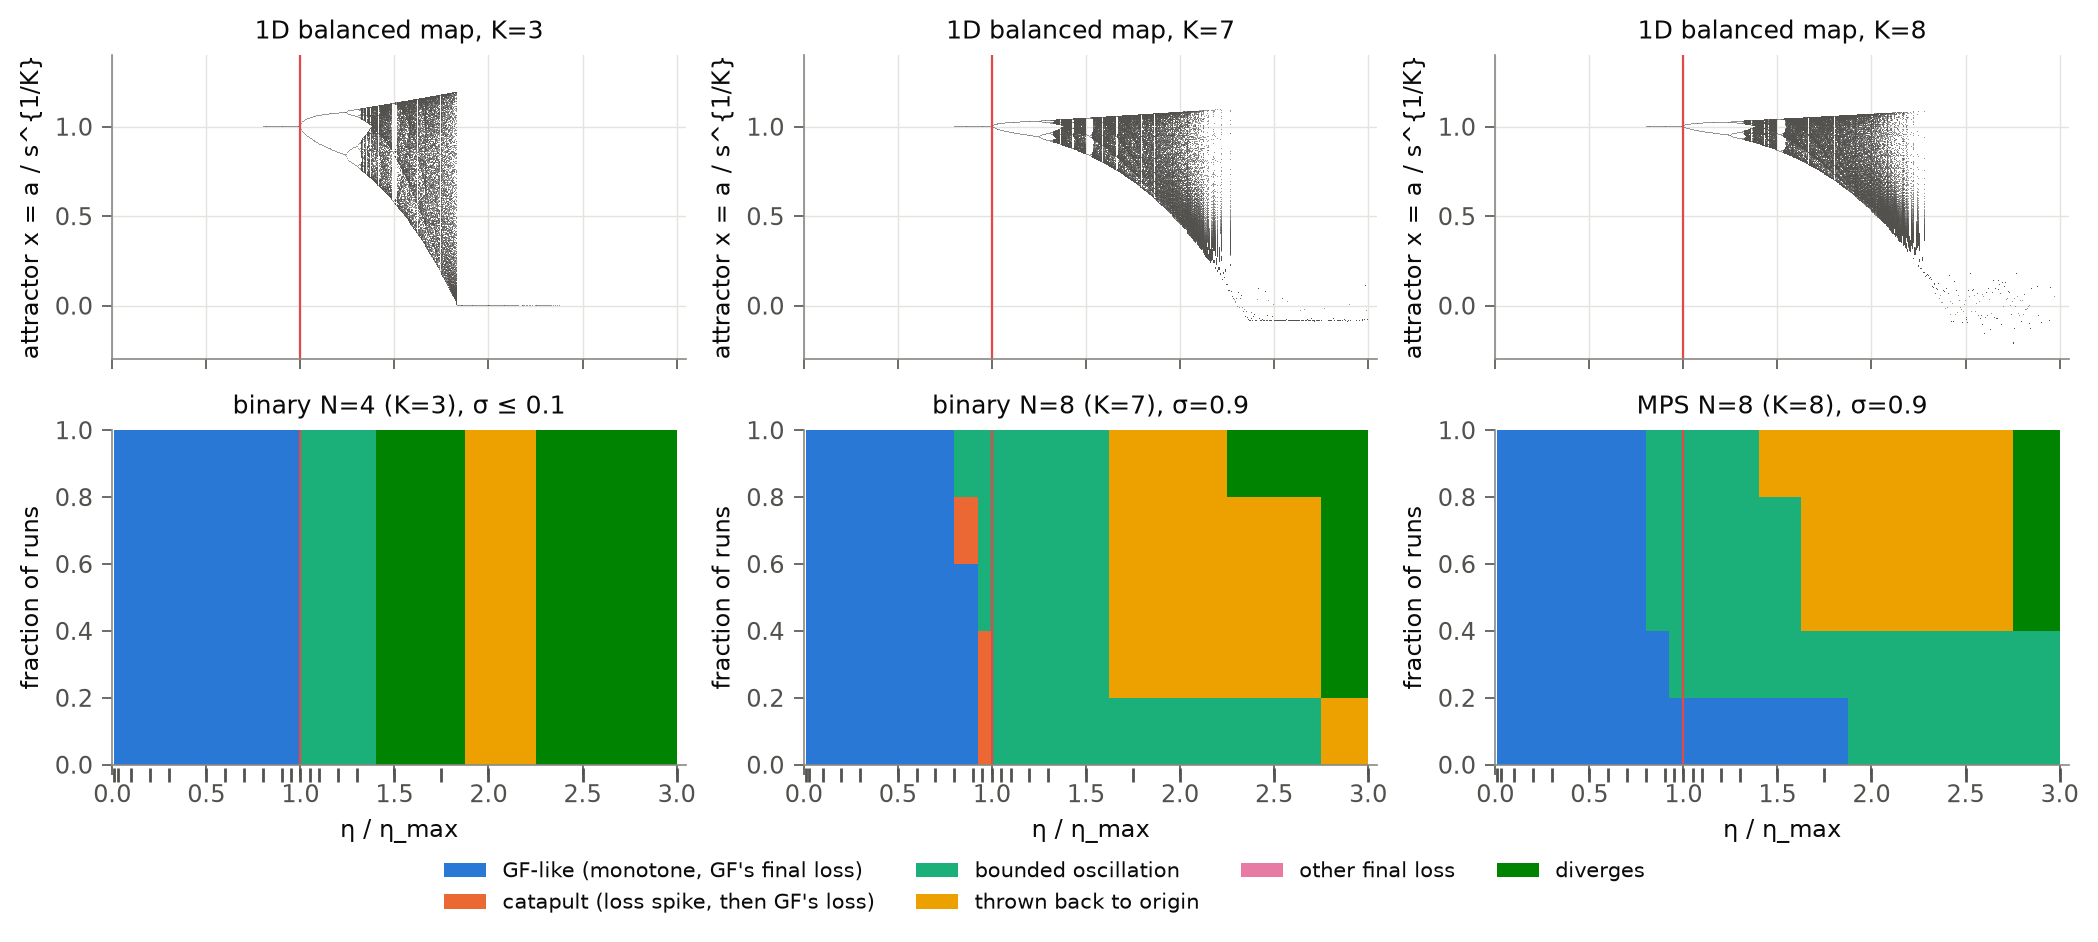
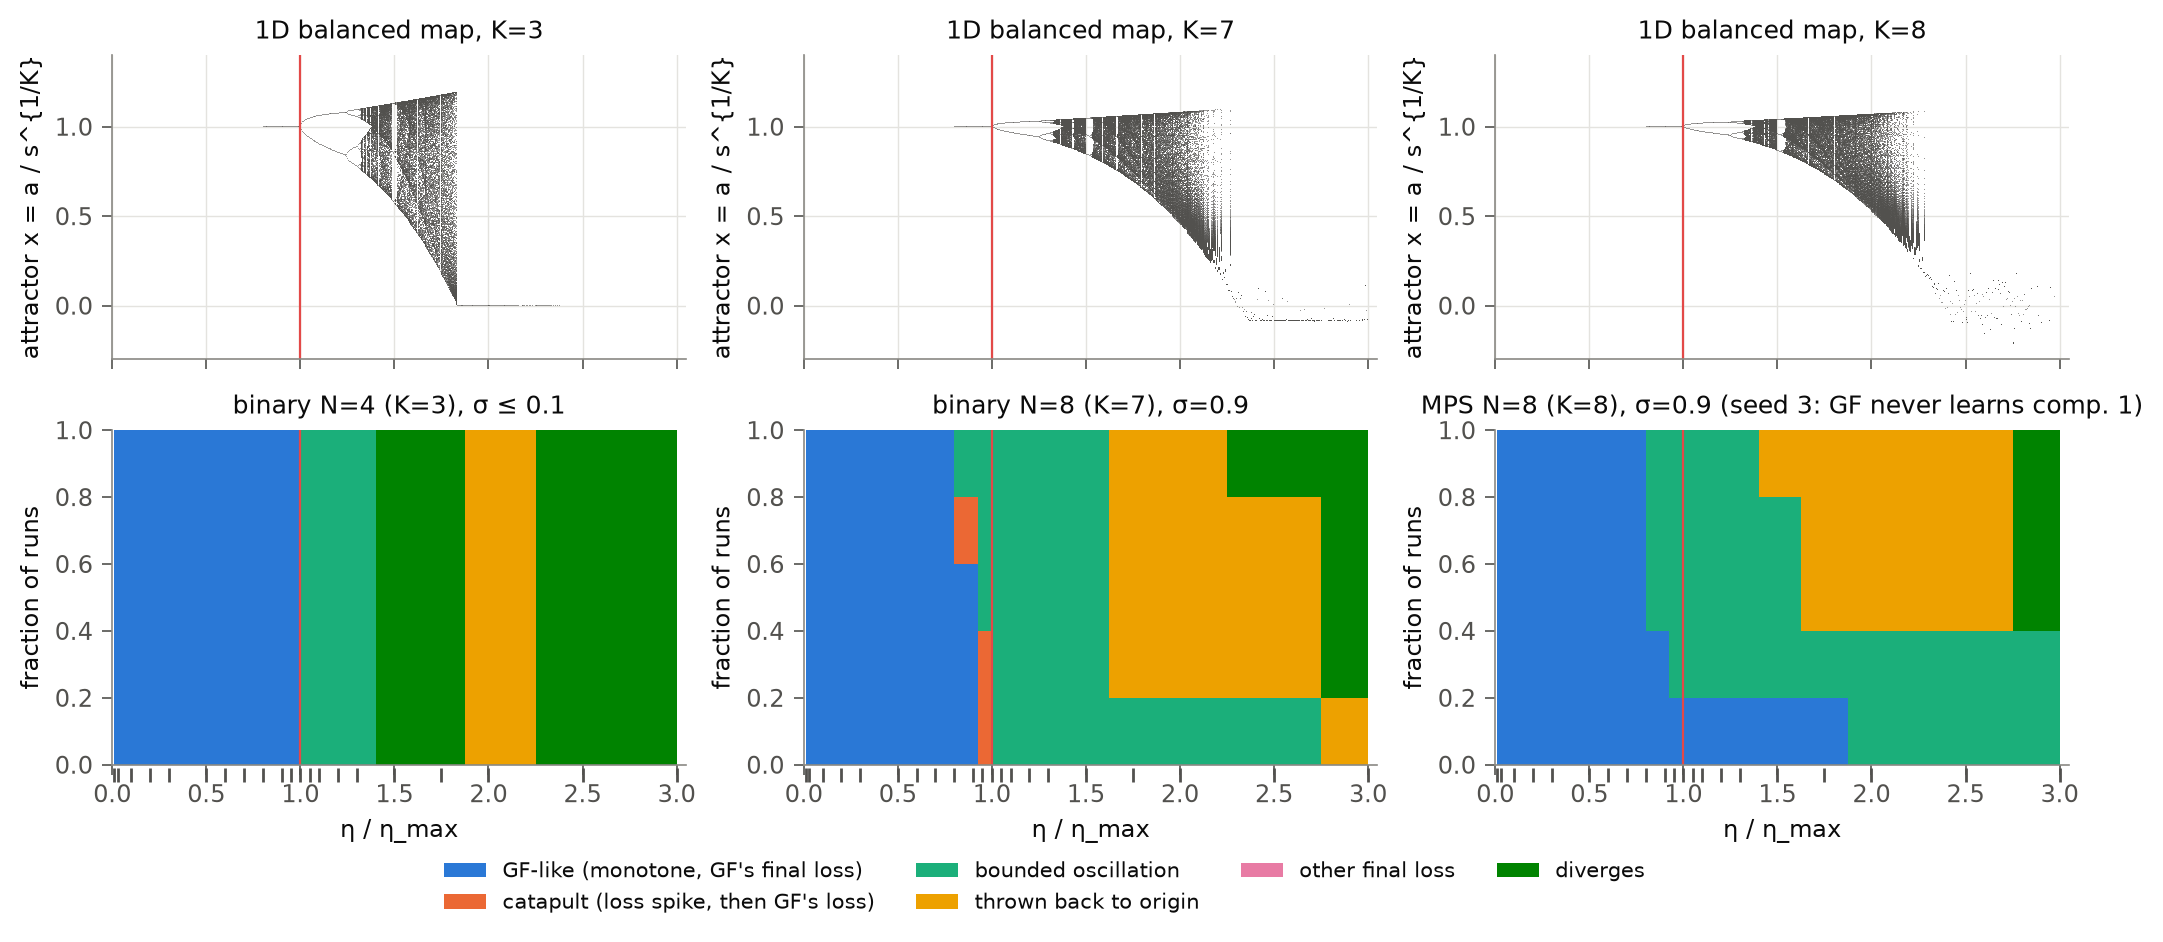
optim-samples fix round: P9/P10 notes (independent seeds, law-shape test), README run instructions, figure annotations

diff --git a/experiments/optim_samples/plot_gd.py b/experiments/optim_samples/plot_gd.py
@@ -59,7 +59,7 @@ def fig_gd_vs_gf(df):
 def fig_stability(df):
     att = pd.read_csv(RES / "map1d_points.csv")
     trees = [("binary", 4, "binary N=4 (K=3), σ ≤ 0.1", 3), ("binary", 8, "binary N=8 (K=7), σ=0.9", 7),
-             ("mps", 8, "MPS N=8 (K=8), σ=0.9", 8)]
+             ("mps", 8, "MPS N=8 (K=8), σ=0.9 (seed 3: GF never learns comp. 1)", 8)]
     fig, axes = plt.subplots(2, 3, figsize=(10.5, 4.6), sharex=True,
                              gridspec_kw=dict(height_ratios=[1, 1.1]))
     plain = df[df.root_scale.isna()]

diff --git a/experiments/optim_samples/README.md b/experiments/optim_samples/README.md
@@ -15,45 +15,57 @@ MPS N=8 (K=8). eta_max = 2 / (K s_1^{2-2/K}). Step 3 uses binary N=8, d = 2, tea
 student chi = 4. All float64 on CPU. The GD/SGD loops here are minimal and were written before
 `ttn.dynamics` landed; GF references use `scipy` DOP853 (rtol 1e-10, atol 1e-14).
 
-## Scripts (run from the repo root with `uv run python experiments/optim_samples/<script>`)
+## How to run
+
+From the repository root, with config paths written out in full, for example
+
+    uv run python experiments/optim_samples/gd_sweep.py experiments/optim_samples/configs/gd_sweep.yaml --workers 8
+    uv run python experiments/optim_samples/analyze_gd.py --out-dir experiments/optim_samples/results
+
+Every script takes `--raw-dir DIR` (raw per-run data; default `/root/outputs/optim_samples`, or the
+environment variable `OPTIM_SAMPLES_RAW`) and `--out-dir DIR` (summary CSVs and figures; default
+`<raw-dir>/results` or `OPTIM_SAMPLES_OUT`). The default output directory is outside git, so a re-run
+never overwrites the committed results; pass `--out-dir experiments/optim_samples/results` to
+regenerate them. Analysis scripts read the CSVs of earlier scripts from the same `--out-dir`. Sweeps take
+`--workers N` (default: min(30, number of CPUs); one torch thread per process) and are resumable
+(finished runs are skipped; move a raw directory aside to rerun it). On machines without `/root`, pass
+`--raw-dir` / `--out-dir` (or set the variables). `PYTHONDONTWRITEBYTECODE=1` keeps `__pycache__` out
+of the folder.
+
+## Scripts
 | script | what | output |
 |---|---|---|
-| `check_sharpness.py` | top Hessian eigenvalue at balanced / gauged / imbalanced minima vs K s_1^{2-2/K} | `results/sharpness_check.csv` |
-| `map1d.py` | bifurcation diagram of GD on one balanced mode | `results/map1d_attractor.csv`, `map1d_points.csv` |
-| `sgd_stability.py [tree N ...]` | exact linear mean-square stability limit of online SGD vs B | `results/sgd_stability.csv` |
-| `gd_sweep.py configs/gd_sweep.yaml` | step 1: GF references + GD at 18 step sizes (750 runs) | raw: `/root/outputs/optim_samples/gd/` |
-| `gd_sweep.py configs/gd_order.yaml` | 40 more init seeds (order flips below eta_max) | same |
-| `gd_sweep.py configs/gd_centred.yaml` | centred model, sigma 0.3-2: stability limit across the lazy transition | same |
-| `predict_shift.py` | first-order (backward-error) prediction of GD event shifts | `results/gd_shift_prediction.csv` |
-| `analyze_gd.py` | step-1 table and outcome classes; exports EoS example trajectories | `results/gd_sweep.csv`, `gd_summary.csv`, `eos_example_*.csv` |
-| `analyze_order.py` | order flips vs eta, near-tie measure | `results/order_flips.csv`, `fig_order_flips.png` |
+| `check_sharpness.py` | top Hessian eigenvalue at balanced / gauged / imbalanced minima vs K s_1^{2-2/K} | `sharpness_check.csv` |
+| `map1d.py` | bifurcation diagram of GD on one balanced mode | `map1d_attractor.csv`, `map1d_points.csv` |
+| `sgd_stability.py [tree N ...]` | exact linear mean-square stability limit of online SGD vs B | `sgd_stability.csv` |
+| `gd_sweep.py <config>` | GF references + GD runs; configs: `gd_sweep.yaml` (step 1, 750 runs), `gd_order.yaml` (40 more seeds), `gd_centred.yaml` (round 1, chi = 3 centred; superseded), `gd_centred_chi9.yaml` (fix round 1: chi = 9 centred + small init, steps relative to 2/lambda_GF) | raw: `<raw-dir>/gd/` |
+| `predict_shift.py` | first-order (backward-error) prediction of GD event shifts (step-1 references) | `gd_shift_prediction.csv` |
+| `analyze_gd.py` | per-run table, outcome classes (GF-like, catapult, oscillating, thrown back, other, diverged), EoS example export | `gd_sweep.csv`, `gd_summary.csv`, `eos_example_*.csv` |
+| `analyze_shift.py` | accuracy of the O(eta) shift per event and seed; Richardson check | `shift_accuracy*.csv`, `shift_richardson.csv`, `fig_shift_accuracy.png` |
+| `analyze_order.py` | persistent order vs GF, transient crossings, near-tie measure | `order_flips.csv`, `fig_order_flips.png` |
+| `analyze_p5.py` | P5: oscillation excess loss vs the 1D map | `p5_excess_loss.csv` |
+| `analyze_centred.py` | chi = 9: lambda_GF(sigma) fit, GD classes vs eta/(2/lambda_GF) | `centred_chi9_*.csv`, `fig_centred_chi9.png` |
 | `plot_gd.py` | step-1 figures | `fig_gd_vs_gf.png`, `fig_stability.png`, `fig_eos_example.png`, `fig_min_selection.png` |
 | `plot_regime.py` | learning-rate axis of the regime map | `fig_lr_regime_map.png` |
-| `sgd_sweep.py configs/sgd_sweep.yaml` | step 2: online SGD, B = 1..256, eta sweeps, aligned init | raw: `/root/outputs/optim_samples/sgd/*.jsonl` |
-| `analyze_sgd.py`, `plot_sgd.py` | step-2 tables (incl. second plateau vs P9) and figures | `results/sgd_*.csv`, `fig_sgd.png`, `fig_sgd_stability.png` |
-| `p9_sgd.py`, `plot_p9.py` | test of the theory note's P9/P10 (SGD on a later plateau; uses `ttn.dynamics.run_sgd`) | `results/p9_sgd.csv`, `p9_fit.csv`, `fig_p9.png` |
-| `collapse_test.py` | stochastic collapse of a k = 2 route with label noise, MPS N=4 (`ttn.dynamics.run_sgd`) | `results/collapse_test.csv` |
-| `check_k2_saddle.py` | gauge-projected Hessian lambda_min at the k = 2 plateau vs sigma (saddle type) | `results/k2_saddle_sweep.csv`, `k2_saddle_hessian.json` |
-| `sgd_limit_test.py` | empirical SGD stability limit at the balanced minimum (B = 1, 16) | `results/sgd_limit_test.csv` |
-| `samples_sweep.py configs/samples_sweep.yaml` | step 3: fixed training sets, small vs centred large init, exact lazy limit | raw: `/root/outputs/optim_samples/samples/*.jsonl` |
-| `analyze_samples.py` | step-3 tables and figure | `results/samples_summary.csv`, `fig_samples.png` |
-| `validate_library.py` | reruns sample GD/GF/SGD settings with `ttn.dynamics` and compares | `results/validate_library.csv` |
+| `sgd_sweep.py experiments/optim_samples/configs/sgd_sweep.yaml` | step 2: online SGD, B = 1..256, eta sweeps, aligned init; runs continue past the second GF event | raw: `<raw-dir>/sgd/*.jsonl` |
+| `analyze_sgd.py`, `plot_sgd.py` | step-2 tables (per init and pooled, s.e. across inits; second plateau vs P9) and figures | `sgd_*.csv`, `fig_sgd.png`, `fig_sgd_stability.png` |
+| `p9_sgd.py`, `plot_p9.py` | P9/P10 test (aligned-route start, independent noise seeds; `ttn.dynamics.run_sgd`), law-shape fits | `p9_sgd.csv`, `p9_conditions.csv`, `p9_fit.csv`, `fig_p9.png` |
+| `collapse_test.py` | stochastic collapse of a k = 2 route with label noise, MPS N=4 | `collapse_test.csv` |
+| `check_k2_saddle.py` | raw and gauge-projected Hessian lambda_min at the k = 2 plateau vs sigma | `k2_saddle_sweep.csv`, `k2_saddle_hessian.json` |
+| `sgd_limit_test.py` | empirical SGD stability limit at the balanced minimum (B = 1, 16) | `sgd_limit_test.csv` |
+| `samples_sweep.py experiments/optim_samples/configs/samples_sweep.yaml` | step 3: fixed training sets, small vs centred init, exact lazy limit | raw: `<raw-dir>/samples/*.jsonl` |
+| `analyze_samples.py` | step-3 tables and figure | `samples_summary.csv`, `fig_samples.png` |
+| `validate_library.py` | reruns sample GD/GF/SGD settings with `ttn.dynamics` and compares (round 1) | `validate_library.csv` |
 
-All scripts take `--out-dir DIR` (summaries and figures; default `/root/outputs/optim_samples/results`,
-outside git, so a re-run never overwrites the committed results; pass `--out-dir
-experiments/optim_samples/results` to regenerate them) and `--raw-dir DIR` (raw per-run data; default
-`/root/outputs/optim_samples`); the sweeps take `--workers N`. Analysis scripts read the CSVs written by
-earlier scripts from the same `--out-dir`.
-
-Helpers: `common.py` (setup, Problem with centred variant, GF reference via scipy DOP853, events),
-`plot_style.py`. Order to regenerate everything: `check_sharpness.py`, `map1d.py`,
-`sgd_stability.py`, the three `gd_sweep.py` configs, `predict_shift.py`, `analyze_gd.py`,
-`analyze_order.py`, `plot_gd.py`, `plot_regime.py`, `sgd_sweep.py`, `analyze_sgd.py`, `plot_sgd.py`,
-`p9_sgd.py`, `plot_p9.py`, `collapse_test.py`, `check_k2_saddle.py`, `sgd_limit_test.py`,
-`samples_sweep.py`, `analyze_samples.py`; `validate_library.py` any time after the GD/SGD sweeps. Sweeps are
-resumable (finished runs are skipped). Variants: edit or copy a YAML config (trees, sigmas, seeds,
-ratios / batch sizes / n_train); `--workers` sets the process count (one torch thread each). Cost on
-30 vCPUs: step-1 sweep ~25 min, SGD sweep ~3 h, samples sweep ~45 min, P9 ~40 min.
+Helpers: `common.py` (setup, Problem with centred variant, GF reference via scipy DOP853 with exact
+event location, persistent events `record_events`), `plot_style.py`. Order to regenerate everything:
+`check_sharpness.py`, `map1d.py`, `sgd_stability.py`, `gd_sweep.py` with `gd_sweep.yaml`,
+`gd_order.yaml`, `gd_centred_chi9.yaml`, then `predict_shift.py`, `analyze_gd.py`, `analyze_shift.py`,
+`analyze_order.py`, `analyze_p5.py`, `analyze_centred.py`, `plot_gd.py`, `plot_regime.py`; then
+`sgd_sweep.py` (needs the GF references), `analyze_sgd.py`, `plot_sgd.py`, `p9_sgd.py`, `plot_p9.py`,
+`collapse_test.py`, `check_k2_saddle.py`, `sgd_limit_test.py`, `samples_sweep.py`,
+`analyze_samples.py`. Cost on 30 vCPUs (shared): GD sweeps ~40 min, chi = 9 centred ~1.5 h, SGD sweep
+~3 h, samples ~1 h, P9 ~40 min.
 
 ## Results summary (details, tags and numbers in `notes/optim_samples.md`)
 - Sharpness at the balanced global minimum is exactly K s_1^{2-2/K} (proven; checked to 1e-15), the

diff --git a/notes/optim_samples.md b/notes/optim_samples.md
@@ -59,7 +59,9 @@ x -> x - h x^{K-1} (x^K - 1), h = eta s^{2-2/K}, with h_c = 2/K (`map1d.py`,
 2-cycle straddling x = 1 for 1 < h/h_c < 1.245 (supercritical flip; loss on the cycle grows
 continuously from 0); period 4 at 1.245-1.25, period 8 at ~1.31, chaos from ~1.33 with periodic
 windows (period 3 at ~1.49); the orbit falls back to the plateau near x = 0 ("re-entry") from
-h/h_c = 1.84 / 1.99 / 2.23 / 2.29 and diverges from 2.16 / 2.41 / 2.72 / 2.86 for K = 3 / 4 / 7 / 8.
+h/h_c = 1.84 / 1.99 / 2.23 / 2.29 and diverges from 2.16 / 2.41 / 2.72 / 2.86 for K = 3 / 4 / 7 / 8
+(first occurrence on a grid of step 0.005; the regimes interleave: above the first divergence, 30
+grid points (K = 3) and 45 (K = 7) still end in re-entry rather than divergence).
 The flip and cascade thresholds are K-independent in units of h_c; re-entry and divergence move
 up with K.
 
@@ -279,33 +281,43 @@ and sigma = 0.03 (B in {1, 4, 16, 64, 256}); eta sweeps at B = 4 (eta = 1e-4 ...
   gauge orbits, ~0.6-0.9 in tr Q at B = 1 (cores have |G|^2 ~ 4).
 - No divergence in any run (all eta <= 0.47 eta*_ms).
 
-### 4.1 Test of the theory note's P9/P10 (empirical; `p9_sgd.py`, `plot_p9.py`, `results/p9_fit.csv`)
+### 4.1 Test of the theory note's P9/P10 (empirical; `p9_sgd.py`, `plot_p9.py`, `results/p9_*.csv`)
 
 Binary N=4, d = chi = 3, teacher [3, 2, 1]; start on the aligned route (component 1 learned,
-components 2 and 3 at per-core amplitude b0), so the GF second plateau is exact: T_GF = 49.7, 166.3,
-499.6 for b0 = 0.01, 0.003, 0.001 (exact 1D integral = `integrate_gf` lsoda to 1e-8). Online SGD
-(`ttn.dynamics.run_sgd`), 4 noise seeds per point, eta/B = 6.25e-5, 1.25e-4, 2.5e-4 at B = 64
-(eta = 0.004-0.016 = 0.08-0.3 eta*_ms) and B = 16 (b0 = 0.01). Event: a_2 = 1/2.
+components 2 and 3 at per-core amplitude b0), so the GF second plateau is exact: T_GF = 49.7, 99.7,
+166.3, 249.7 for b0 = 0.01, 0.005, 0.003, 0.002 (exact 1D integral = `integrate_gf` lsoda to 1e-8).
+Online SGD (`ttn.dynamics.run_sgd`), **6 independent noise seeds per point** (fix round 1: round-1
+runs at B = 16 and 64 shared generator seeds and were pathwise coupled; they are kept in
+`results/p9_sgd_round1.csv`), eta/B = 3.125e-5 ... 2.5e-4 at B = 64 (eta = 0.002-0.016 = 0.04-0.30
+eta*_ms), and at B = 16 for b0 = 0.01, 0.003. Event: persistent crossing of a_2 = 1/2; runs up to
+4 T_GF (cap 1600). R = T_SGD/T_GF, mean +- s.e. over the escaped seeds; z = (eta/B) T_GF.
 
-| b0 (T_GF) | eta/B = 6.25e-5 | 1.25e-4 | 2.5e-4 |
-|---|---|---|---|
-| 0.01 (50), B=64 / B=16 | 1.056 / 1.056 (c 33.6 / 33.5) | 1.130 / 1.129 (35.6 / 35.3) | 1.386 / 1.380 (40.1 / 39.7) |
-| 0.003 (166), B=64 | 1.267 (37.5) | 3.06 +- 0.26 (45.1) | trapped (4/4) |
-| 0.001 (500), B=64 | trapped (4/4) | trapped (4/4) | trapped (2/2) |
+| b0 (T_GF) | eta/B = 3.1e-5 | 6.25e-5 | 1.25e-4 | 2.5e-4 |
+|---|---|---|---|---|
+| 0.01 (50), B = 64 / 16 | 1.027 +- 0.001 / 1.024 +- 0.003 | 1.048 +- 0.003 / 1.052 +- 0.004 | 1.131 +- 0.017 / 1.124 +- 0.005 | 1.45 +- 0.07 / 1.38 +- 0.03 |
+| 0.005 (100) | 1.048 +- 0.002 | 1.118 +- 0.006 | 1.372 +- 0.011 | trapped 6/6 |
+| 0.003 (166), B = 64 / 16 | 1.090 +- 0.001 / 1.087 +- 0.001 | 1.250 +- 0.008 / 1.237 +- 0.004 | 2.69 +- 0.15 / 2.45 +- 0.17 | trapped 12/12 |
+| 0.002 (250) | 1.153 +- 0.003 | 1.547 +- 0.015 | trapped 6/6 | trapped 6/6 |
 
-(T_SGD/T_GF, mean over seeds; c = c_gamma from inverting -ln(1-x)/x.) Findings:
-- **Lengthening and trapping confirmed** (P9 (i)): no SGD run escaped faster than GF (P9 (iv)); the
-  route amplitude sigma_2^{1/3} of trapped runs decays (0.001 -> 5e-4, 3e-5, 1e-6 by t = 1600 at the
-  three eta/B).
-- **Only eta/B matters** (P9 (ii)): B = 16 and B = 64 at equal eta/B agree to 0.5%.
-- **c_gamma = 34-45** for this teacher (heuristic of the note: 26), increasing with x: the law's
-  shape -ln(1-x)/x underestimates the lengthening near the trap; the trapping threshold
-  (x = c (eta/B) T_GF ~ 1) is consistent with all trapped runs (c >= 32).
-- **P10 safety rule fails for long plateaus with this teacher:** at eta/B = 2.5e-4 (0.25-0.3 eta*_ms)
-  the learned component dips below 1/2 within T ~ 70 (min a_1 = 0.44-0.46); over 1600 time units it is
-  erased even at 0.15 eta*_ms (min a_1 = 0.04, -0.07). Excursions accumulate with run length, and the
-  residual noise grows like s^2 while eta*_ms shrinks only like s^{-4/3}, so larger teachers need a
-  smaller fraction of eta*_ms (conjecture).
+- **Lengthening and trapping (P9 (i), (iv)):** every escaped run is slower than GF; 30/30 runs at
+  z >= 0.025 are trapped (no escape by 4 T_GF).
+- **Only eta/B matters (P9 (ii)), now with independent noise:** B = 16 and B = 64 agree within their
+  standard errors at all 8 matched points (largest gap 2.69 +- 0.15 vs 2.45 +- 0.17).
+- **Shape of the law:** one c_gamma for all 19 escaped conditions, weighted least squares in R:
+  P9 (-ln(1-x)/x) c_gamma = 32.6, chi^2 = 379 (18 dof); pole law 1/(1-x): c = 16.9, chi^2 = 535; linear
+  1 + x/2: chi^2 = 929. The P9 shape fits best and its threshold x = 1 classifies 23/24 conditions
+  correctly (all 19 escaped; 4/5 trapped; b0 = 0.005 at eta/B = 2.5e-4 traps at x = c z = 0.81), but
+  chi^2/dof ~ 21: the measured lengthening rises more steeply near the trap than -ln(1-x)/x (fitted
+  c_gamma grows from ~30 at small x to ~45 near x = 1). So the law is right qualitatively and to ~10%
+  for R <~ 1.5, not exact. c_gamma ~ 33 vs the theory note's heuristic 26.
+- **P10 (learned component under noise), counts per step-size fraction:** min a_1 < 1/2 in 0/72 runs
+  at <= 0.076 eta*_ms, 1/36 at 0.12-0.15 eta*_ms (a 1000-time-unit run), 20/36 at 0.25-0.30 eta*_ms
+  (6/12 at 0.25, B = 16; 14/24 at 0.30, B = 64). Excursions grow with run length; most components are
+  relearned (a_1 ~ 1 at the end). So P10's "safe at <= 0.25 eta*_ms" fails for this teacher on long
+  plateaus; ~0.1 eta*_ms was safe over <= 1000 time units. The trapped conditions at eta/B = 2.5e-4
+  overlap with these erasures (19/24 runs dip: 6/6, 10/12, 3/6 for b0 = 0.002, 0.003, 0.005), so the
+  clean trapping evidence is b0 = 0.002 at
+  1.25e-4 (6/6 trapped, 1/6 dips) and b0 = 0.005, 0.003 at 2.5e-4 only partly.
 
 ### 4.2 Stochastic collapse of a k = 2 route (empirical; `collapse_test.py`, `check_k2_saddle.py`)
 
